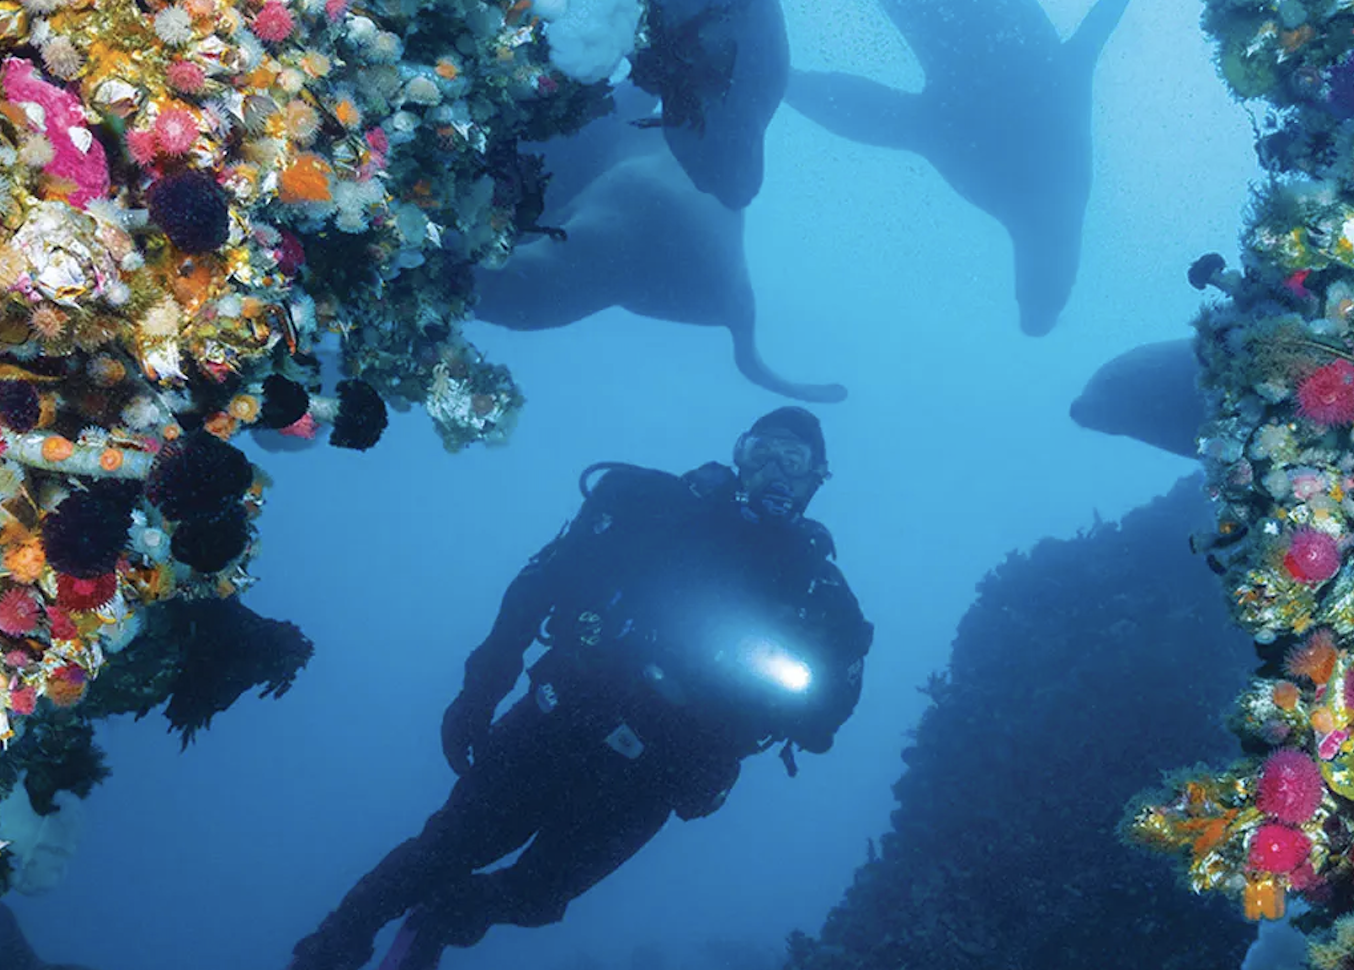
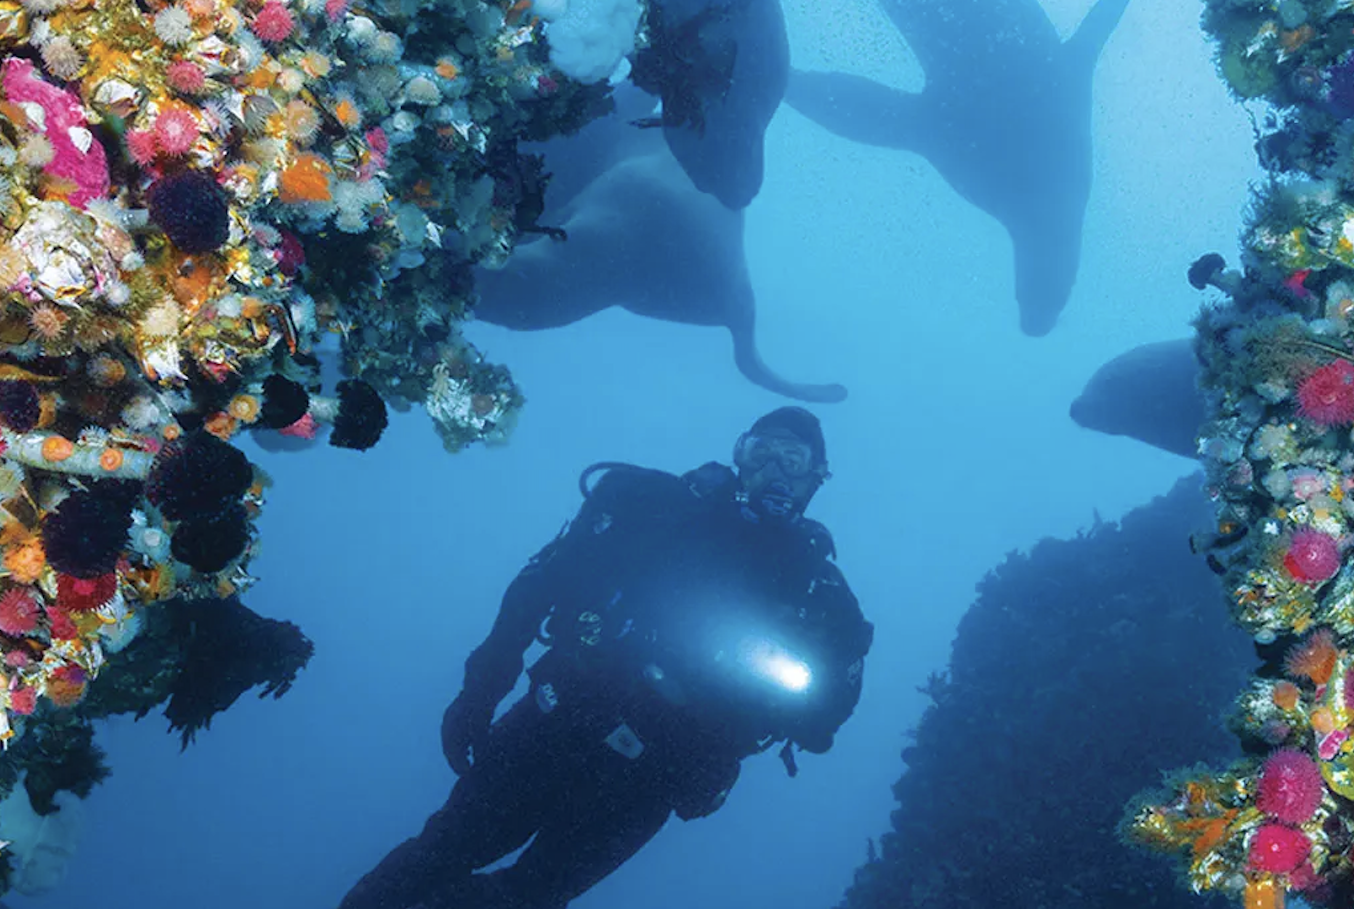
adjusted image sizes

diff --git a/app/templates/index.html b/app/templates/index.html
@@ -60,7 +60,7 @@
     <div class="card-columns">
         <div class="card text-center ">
             <div class="bg-image hover-overlay ripple" data-mdb-ripple-color="light">
-              <img src="{{ url_for('static', filename='images/whalewatching.jpeg') }}" class="img-fluid" />
+              <img src="{{ url_for('static', filename='images/whalewatching.png') }}" class="img-fluid" />
               <a href="#!">
                 <div class="mask" style="background-color: rgba(251, 251, 251, 0.15)"></div>
               </a>
